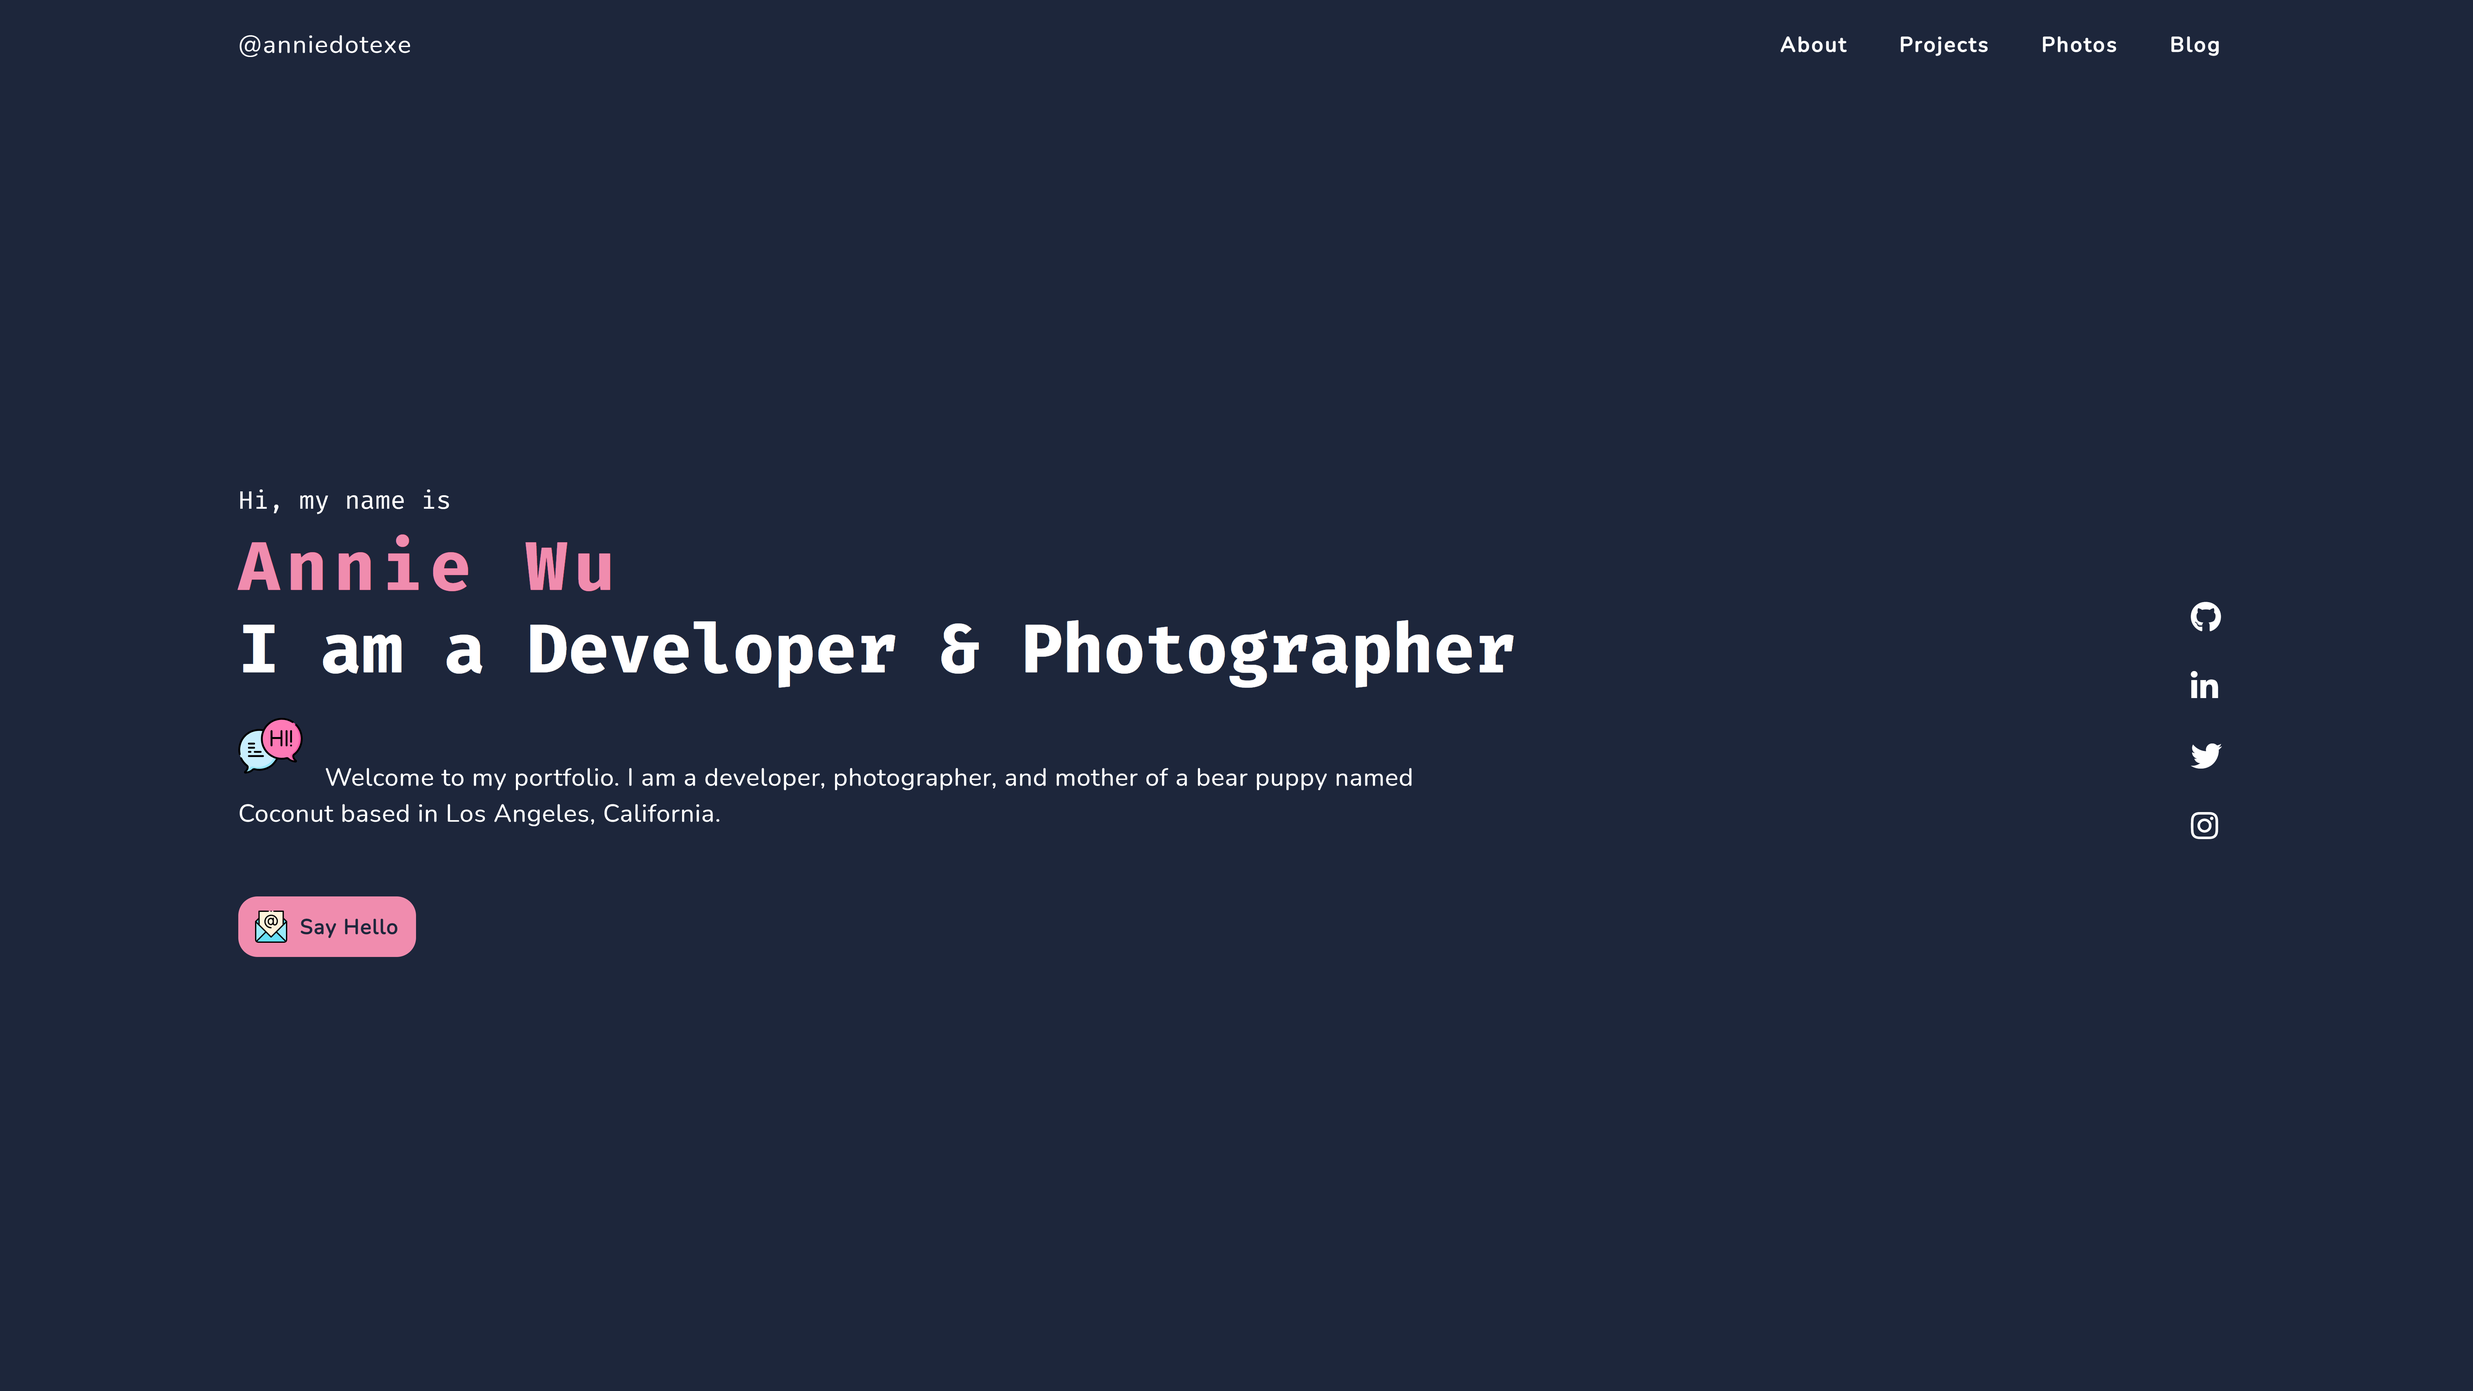
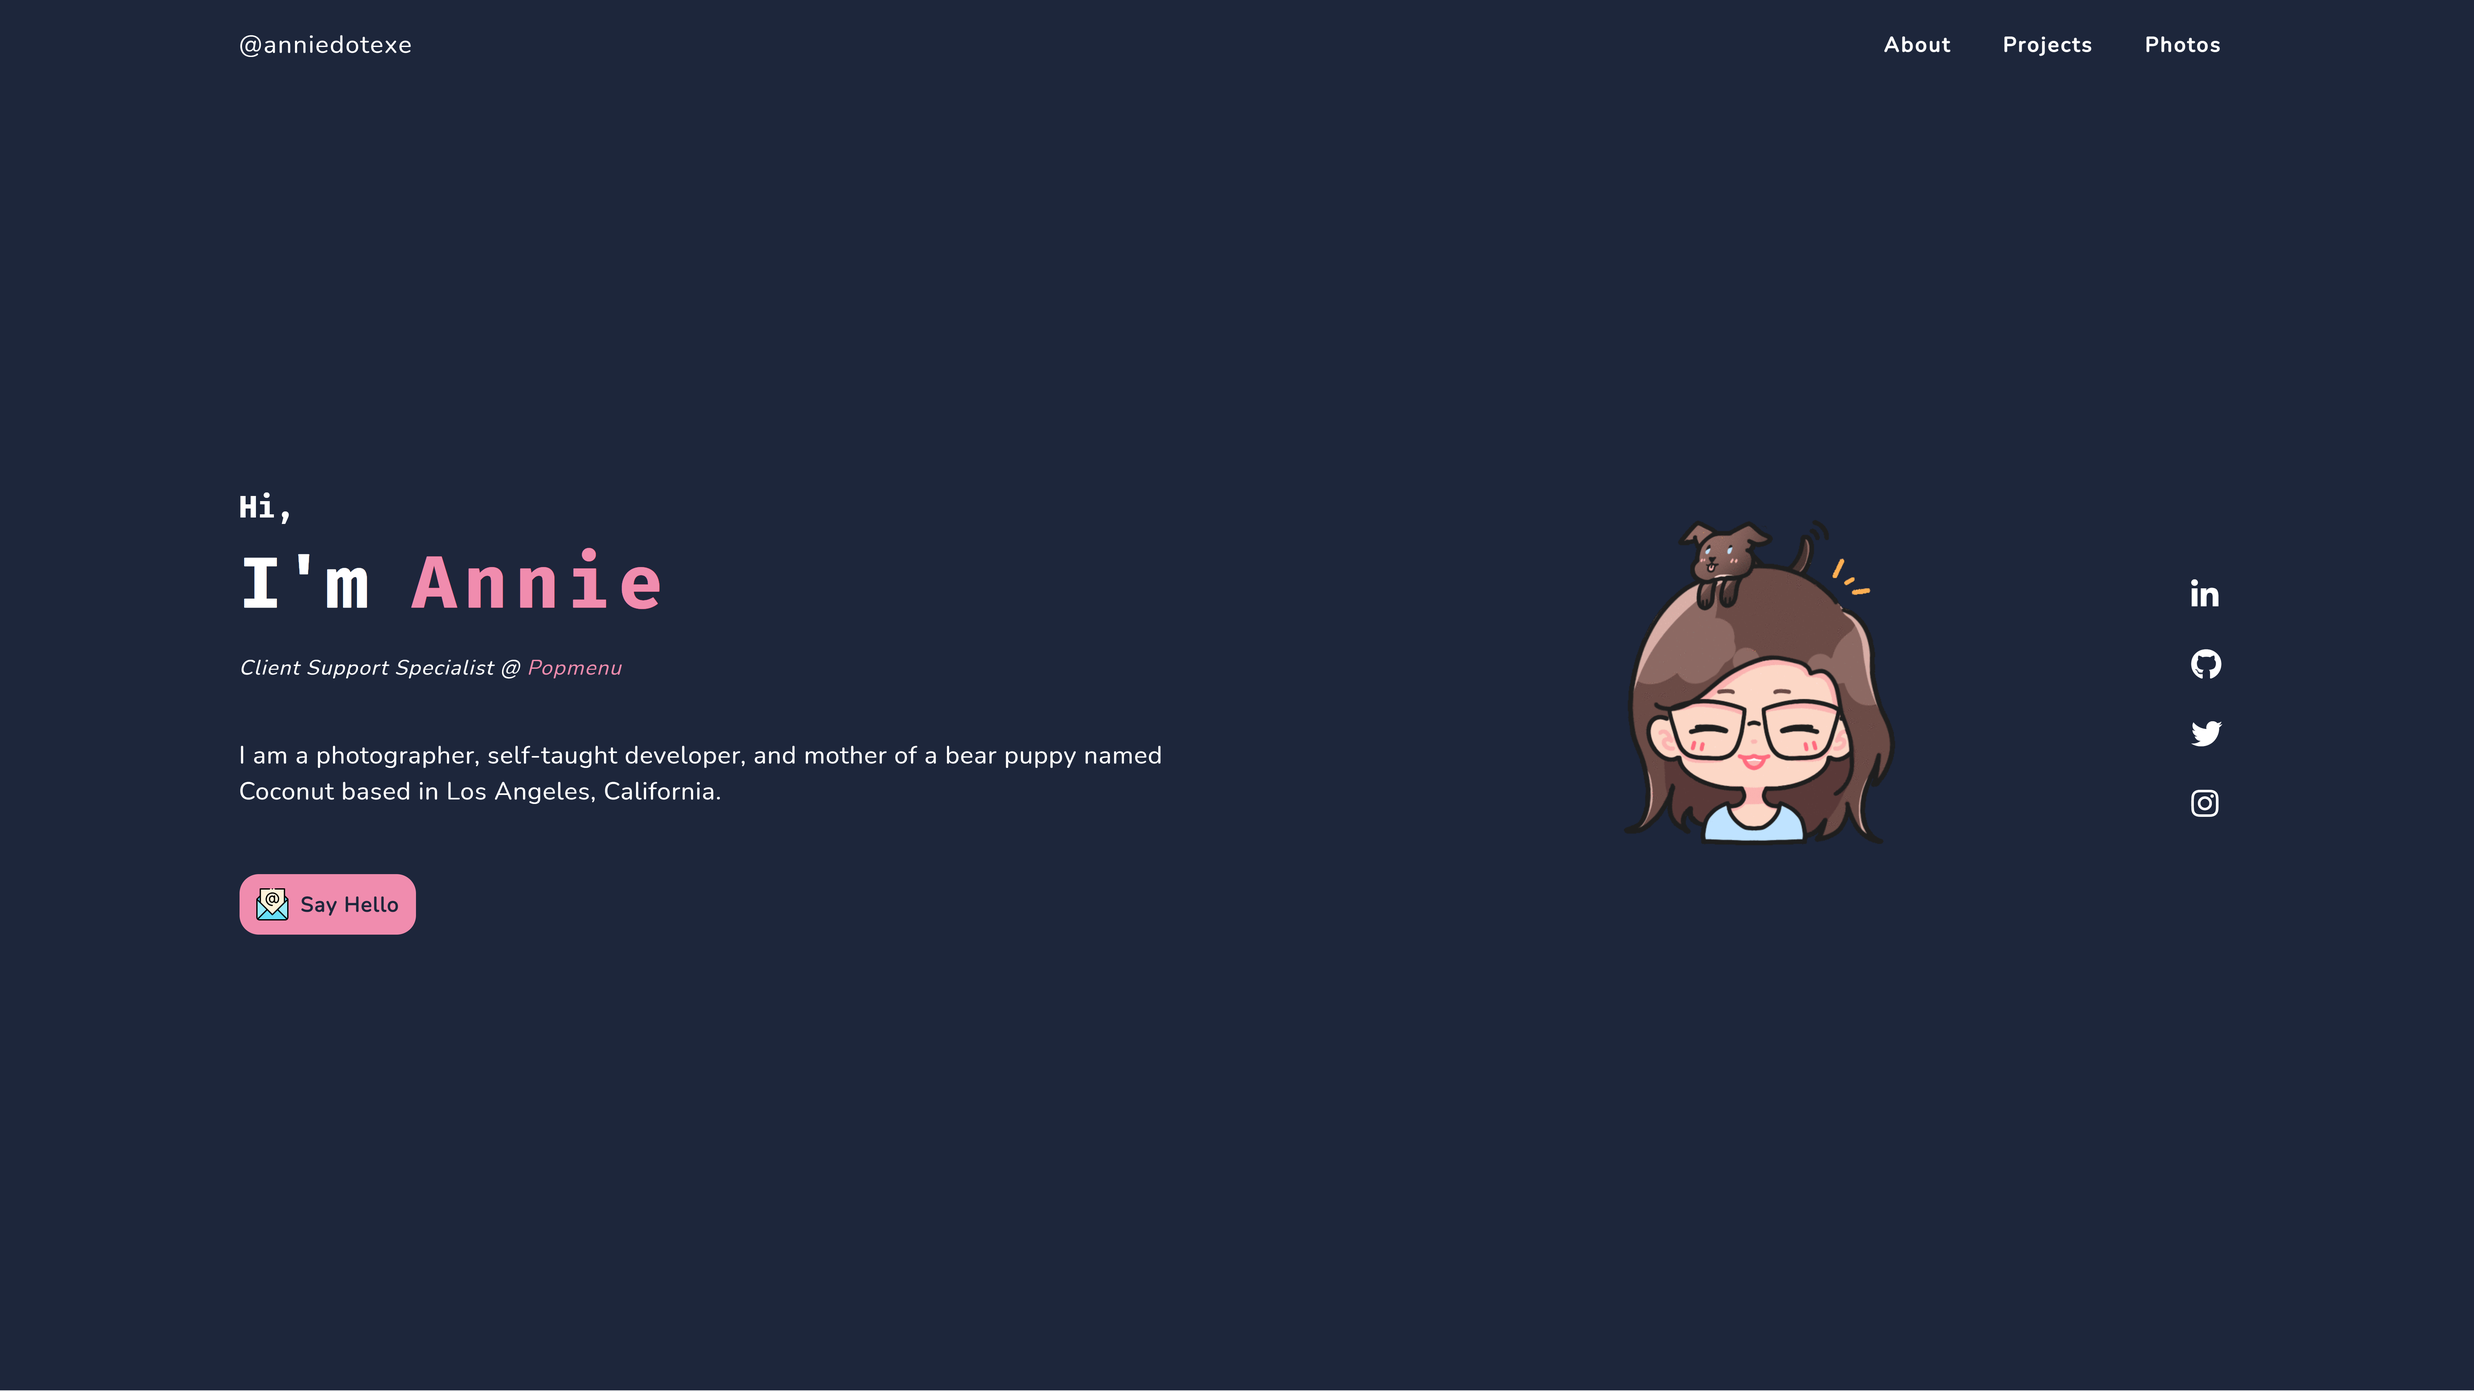
Update landing page screenshots and projects

diff --git a/projects.html b/projects.html
@@ -57,9 +57,6 @@
                     <li class="nav-item"><a href="/about">About</a></li>
                     <li class="nav-item"><a href="/projects">Projects</a></li>
                     <li class="nav-item"><a href="/photos">Photos</a></li>
-                    <li class="nav-item"><a
-                            href="https://anniedotexe.notion.site/2f89ab02918142e885a684db6e8d6c53?v=e84b8638720749c9a11741c6790c7022">Blog</a>
-                    </li>
                 </ul>
             </nav>
         </header>
@@ -72,8 +69,8 @@
                 </div>
                 <p class="section-description">
                     Here are the projects I have worked on.<br>
-                    Feel free to take a look at my <a class="hyperlink"
-                        href="https://github.com/anniedotexe">GitHub</a> profile.
+                    Also take a look at my <a class="hyperlink"
+                        href="https://github.com/anniedotexe">GitHub</a> profile for more details.
                 </p>
                 <div class="project-cards-container">
                     <div class="card">
@@ -217,10 +214,7 @@
                                 An Instagram bot script written in Python using <a class="hyperlink"
                                     href="https://selenium-python.readthedocs.io/">Selenium</a> on
                                 Google Chrome. It will go through posts in hashtag(s) and like
-                                and/or comment on them.<br><br>
-                                <em>Yes, the preview image is my Instagram page. I didn't know what
-                                    other picture I could use for this project, but don't be shy,
-                                    drop a follow or say hello.</em>
+                                and/or comment on them.
                             </p>
                         </div>
                     </div>
@@ -263,39 +257,6 @@
                         </div>
                     </div>
                     <div class="card">
-                        <img src="./img/project-preview/amazon2-preview.png"
-                            alt="Project Preview Screenshot" class="card-preview-img">
-                        <div class="card-info">
-                            <div class="title-and-links">
-                                <span class="project-title">
-                                    Amazon 2.0
-                                </span>
-                                <div class="project-links">
-                                    <a href="https://clone-2-2ee81.firebaseapp.com">
-                                        <i class="fas fa-external-link-alt"></i>
-                                    </a>
-                                    <a href="https://github.com/anniedotexe/amazon-2">
-                                        <i class="fab fa-github"></i>
-                                    </a>
-                                </div>
-                            </div>
-                            <div class="project-skills">
-                                <span>HTML5</span>
-                                <span>Tailwind CSS</span>
-                                <span>JavaScript</span>
-                                <span>Firebase</span>
-                                <span>Firestore Database</span>
-                            </div>
-                            <p class="project-description">
-                                A redesigned Amazon clone inspired by this <a class="hyperlink"
-                                    href="https://dribbble.com/shots/15350650-Amazon-Website-Redesign-Concept">concept
-                                    design</a> on Dribbble. You can add items to cart, delete items
-                                from the cart, and increase or decrease the quantity of an item in
-                                the cart.
-                            </p>
-                        </div>
-                    </div>
-                    <div class="card">
                         <img src="./img/project-preview/rnn-twitter-bot-preview.png"
                             alt="Project Preview Screenshot" class="card-preview-img">
                         <div class="card-info">
@@ -327,6 +288,39 @@
                                 instance. However, the free
                                 trial period ended, so it is now scheduled to run locally on PC
                                 startup.
+                            </p>
+                        </div>
+                    </div>
+                    <div class="card">
+                        <img src="./img/project-preview/amazon2-preview.png"
+                            alt="Project Preview Screenshot" class="card-preview-img">
+                        <div class="card-info">
+                            <div class="title-and-links">
+                                <span class="project-title">
+                                    Amazon 2.0
+                                </span>
+                                <div class="project-links">
+                                    <a href="https://clone-2-2ee81.firebaseapp.com">
+                                        <i class="fas fa-external-link-alt"></i>
+                                    </a>
+                                    <a href="https://github.com/anniedotexe/amazon-2">
+                                        <i class="fab fa-github"></i>
+                                    </a>
+                                </div>
+                            </div>
+                            <div class="project-skills">
+                                <span>HTML5</span>
+                                <span>Tailwind CSS</span>
+                                <span>JavaScript</span>
+                                <span>Firebase</span>
+                                <span>Firestore Database</span>
+                            </div>
+                            <p class="project-description">
+                                A redesigned Amazon clone inspired by this <a class="hyperlink"
+                                    href="https://dribbble.com/shots/15350650-Amazon-Website-Redesign-Concept">concept
+                                    design</a> on Dribbble. You can add items to cart, delete items
+                                from the cart, and increase or decrease the quantity of an item in
+                                the cart.
                             </p>
                         </div>
                     </div>
@@ -420,56 +414,6 @@
                             </p>
                         </div>
                     </div>
-                    <div class="card has-no-preview">
-                        <div class="card-info">
-                            <div class="title-and-links">
-                                <span class="project-title">
-                                    CPP Events Calendar App
-                                </span>
-                                <div class="project-links">
-                                    <a href="https://github.com/Oops-404/Cs4800-Oops-404">
-                                        <i class="fab fa-github"></i>
-                                    </a>
-                                </div>
-                            </div>
-                            <div class="project-skills">
-                                <span>Java</span>
-                                <span>Spring Boot</span>
-                                <span>Maven</span>
-                                <span>MongoDB</span>
-                                <span>AWS EC2</span>
-                            </div>
-                            <p class="project-description">
-                                This is a web application using a Spring Boot backend and ReactJS
-                                frontend deployed on an Amazon Web
-                                Services EC2 instance that aggregates Cal Poly
-                                Pomona campus events for simple
-                                viewing and creates sharable calendar links. I constructed data
-                                access objects, service layers, and
-                                rest controllers for users, events, and calendars, and I implemented
-                                REST API operations to
-                                manipulate and retrieve user, event, and calendar data as JSON
-                                objects in a MongoDB database. <br><br>
-                                This project was created by a team of 5 for our Software Engineering
-                                course. The idea for this web
-                                app came about because our university's campus events were all
-                                spread out on different pages, such
-                                as the main site, career center, ASI, by each college, etc. We
-                                wanted
-                                to webscrape all the events and
-                                put it in one place. We also wanted to include the option of adding
-                                campus events or personally
-                                created events to a calendar that can be shared with others via
-                                links. <br><br>
-                                <em>
-                                    We have decided to not continue with this project and it is not
-                                    live
-                                    anymore. However, you can still
-                                    take a look at our code repository.
-                                </em>
-                            </p>
-                        </div>
-                    </div>
                 </div>
             </section>
         </main>
@@ -527,7 +471,7 @@
                     <a href="https://anniedotexe.notion.site/2f89ab02918142e885a684db6e8d6c53?v=e84b8638720749c9a11741c6790c7022"
                         class="footer-button">
                         <img src="./img/blog.svg" alt="Blog Icon">
-                        Blog
+                        Thoughts
                     </a>
                     <a href="/anniewu-resume.pdf" class="footer-button">
                         <img src="./img/resume.svg" alt="Resume Icon">

diff --git a/about.html b/about.html
@@ -56,9 +56,6 @@
                     <li class="nav-item"><a href="/about">About</a></li>
                     <li class="nav-item"><a href="/projects">Projects</a></li>
                     <li class="nav-item"><a href="/photos">Photos</a></li>
-                    <li class="nav-item"><a
-                            href="https://anniedotexe.notion.site/2f89ab02918142e885a684db6e8d6c53?v=e84b8638720749c9a11741c6790c7022">Blog</a>
-                    </li>
                 </ul>
             </nav>
         </header>
@@ -365,7 +362,7 @@
                     <a href="https://anniedotexe.notion.site/2f89ab02918142e885a684db6e8d6c53?v=e84b8638720749c9a11741c6790c7022"
                         class="footer-button">
                         <img src="./img/blog.svg" alt="Blog Icon">
-                        Blog
+                        Thoughts
                     </a>
                     <a href="/anniewu-resume.pdf" class="footer-button">
                         <img src="./img/resume.svg" alt="Resume Icon">

diff --git a/index.html b/index.html
@@ -57,9 +57,6 @@
                     <li class="nav-item"><a href="/about">About</a></li>
                     <li class="nav-item"><a href="/projects">Projects</a></li>
                     <li class="nav-item"><a href="/photos">Photos</a></li>
-                    <li class="nav-item"><a
-                            href="https://anniedotexe.notion.site/2f89ab02918142e885a684db6e8d6c53?v=e84b8638720749c9a11741c6790c7022">Blog</a>
-                    </li>
                 </ul>
             </nav>
         </header>
@@ -310,7 +307,7 @@
                     <a href="https://anniedotexe.notion.site/2f89ab02918142e885a684db6e8d6c53?v=e84b8638720749c9a11741c6790c7022"
                         class="footer-button">
                         <img src="./img/blog.svg" alt="Blog Icon">
-                        Blog
+                        Thoughts
                     </a>
                     <a href="/anniewu-resume.pdf" class="footer-button">
                         <img src="./img/resume.svg" alt="Resume Icon">

diff --git a/photos.html b/photos.html
@@ -57,9 +57,6 @@
                     <li class="nav-item"><a href="/about">About</a></li>
                     <li class="nav-item"><a href="/projects">Projects</a></li>
                     <li class="nav-item"><a href="/photos">Photos</a></li>
-                    <li class="nav-item"><a
-                            href="https://anniedotexe.notion.site/2f89ab02918142e885a684db6e8d6c53?v=e84b8638720749c9a11741c6790c7022">Blog</a>
-                    </li>
                 </ul>
             </nav>
         </header>
@@ -286,7 +283,7 @@
                     <a href="https://anniedotexe.notion.site/2f89ab02918142e885a684db6e8d6c53?v=e84b8638720749c9a11741c6790c7022"
                         class="footer-button">
                         <img src="./img/blog.svg" alt="Blog Icon">
-                        Blog
+                        Thoughts
                     </a>
                     <a href="/anniewu-resume.pdf" class="footer-button">
                         <img src="./img/resume.svg" alt="Resume Icon">
